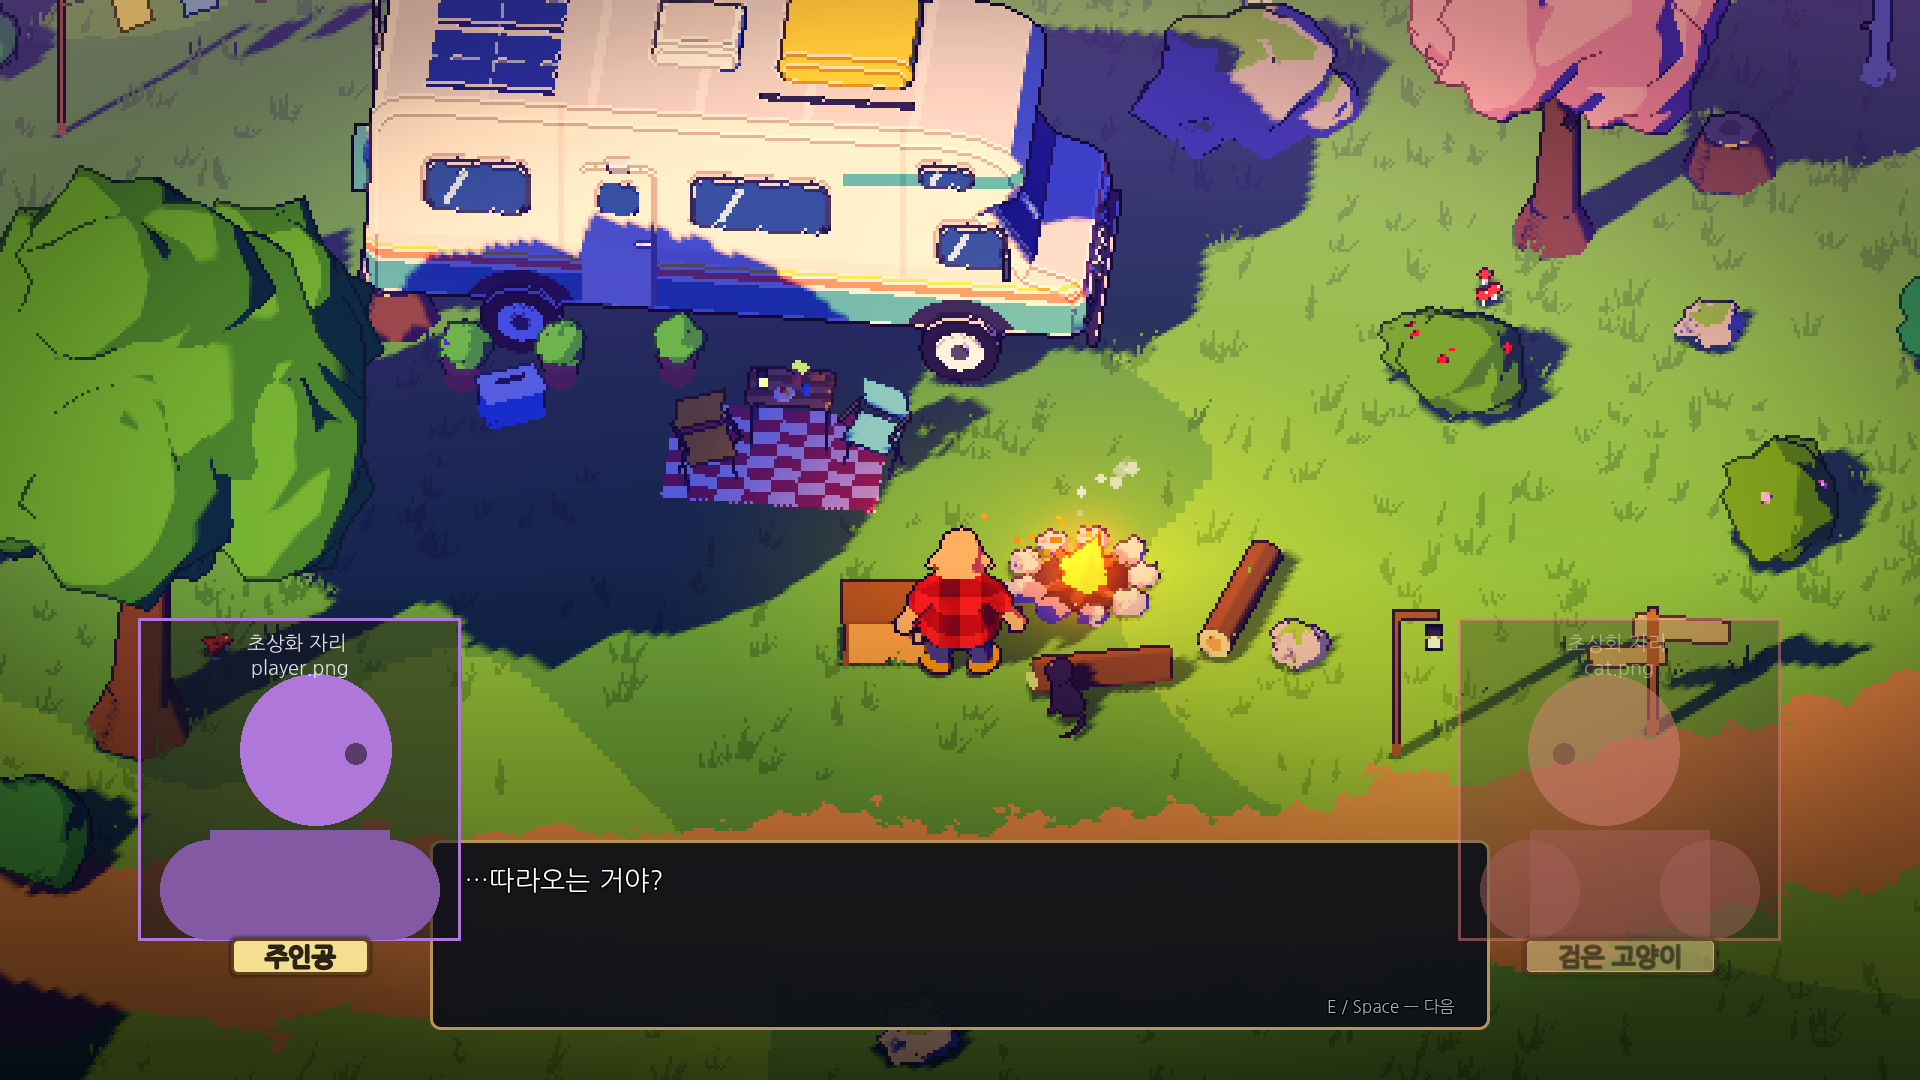
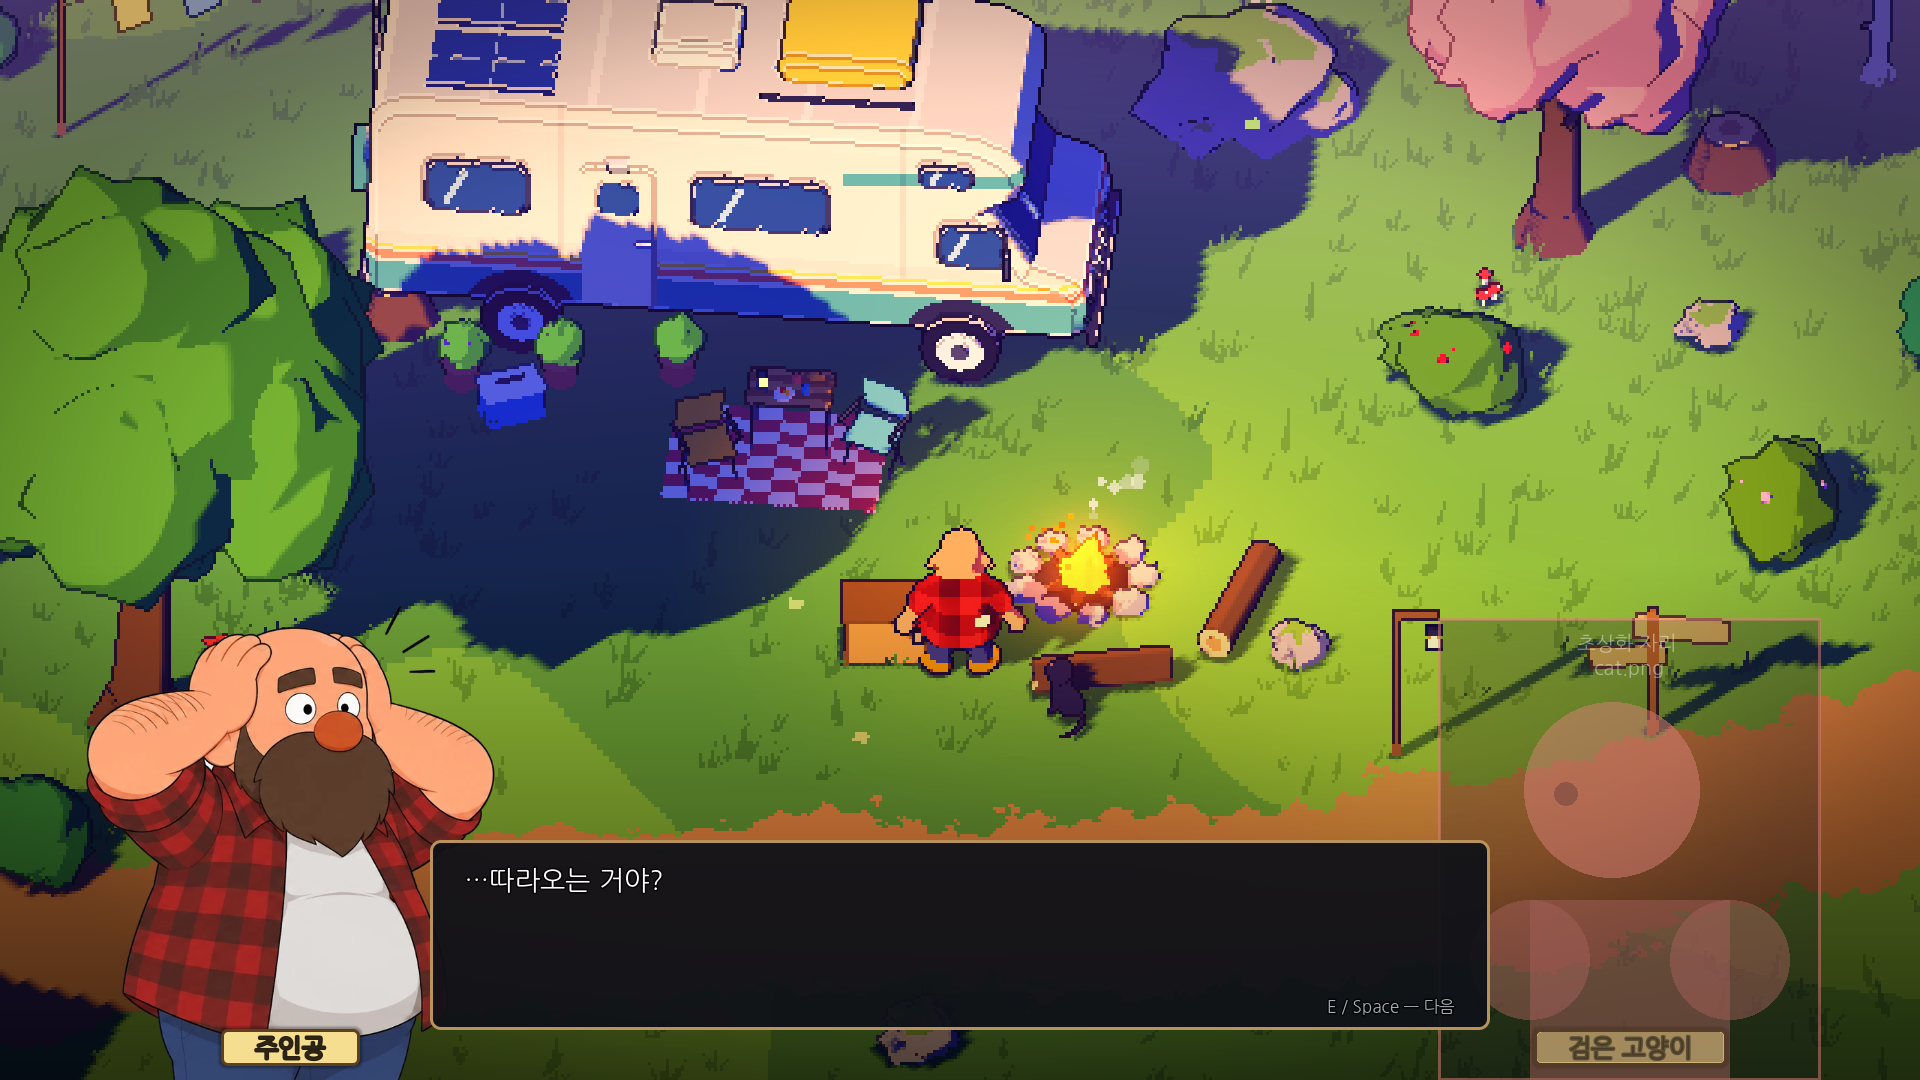
Protagonist dialogue portraits with expressions
- assets/portraits/player.png (default) and player_surprised.png from the user's art;
  the second had its background removed with tools/portraits/prepare_portrait.py
  (border-colour flood fill, enclosed pockets, edge un-mixing). Originals in art_src/portraits.
- Line nodes take an optional "expression" (editor: 표정 field, validator warns on unknown);
  the portrait uses <speaker>_<expression>.png and falls back to the default.
- Full-figure art is shown as a bust (top 68% fills 420x480), portraits stand behind the
  window's ends on the bottom of the screen.
- The cat demo's "…따라오는 거야?" uses the surprised face.

Claude-Session: https://claude.ai/code/session_01K53dp3QXZsLd6yNF78ES5J

diff --git a/tools/portraits/prepare_portrait.py b/tools/portraits/prepare_portrait.py
@@ -1,0 +1,65 @@
+"""Dialogue portrait prep: removes a flat background and crops to the character.
+
+    python tools/portraits/prepare_portrait.py <source image> <output .png>
+
+Images that already have transparency keep it (alpha just tidied). Otherwise the background
+colour is taken from the image border; every background-coloured region touching the border is
+removed, plus large enclosed background pockets (e.g. between an arm and the head). Small light
+areas inside the outline (eye whites, shirt) stay. Edge pixels are un-mixed from the background
+so no light fringe is left around the dark outline. Needs Pillow, numpy, scipy.
+"""
+import sys
+
+import numpy as np
+from PIL import Image
+from scipy import ndimage
+
+TOLERANCE = 14        # max per-channel difference from the background colour
+HOLE_MIN = 0.0012     # enclosed pockets at least this share of the image are background too
+HOLE_MATCH = 7.0      # ... if their mean difference is this small (shirts/eyes are further off)
+MARGIN = 8
+
+
+def remove_background(rgb: np.ndarray) -> np.ndarray:
+    h, w, _ = rgb.shape
+    border = np.concatenate([rgb[0], rgb[-1], rgb[:, 0], rgb[:, -1]]).astype(np.float32)
+    bg = np.median(border, axis=0)
+    diff = np.abs(rgb.astype(np.float32) - bg).max(axis=2)
+    labels, n = ndimage.label(diff < TOLERANCE)
+    edge = set(np.unique(np.concatenate([labels[0], labels[-1], labels[:, 0], labels[:, -1]]))) - {0}
+    removed = np.isin(labels, list(edge))
+    sizes = ndimage.sum(np.ones_like(diff), labels, index=np.arange(1, n + 1))
+    means = ndimage.mean(diff, labels, index=np.arange(1, n + 1))
+    for i in range(n):
+        if sizes[i] >= HOLE_MIN * h * w and means[i] < HOLE_MATCH:
+            removed |= labels == i + 1
+    alpha = np.where(removed, 0.0, 1.0)
+    # un-mix the anti-aliased rim from the background
+    rim = ndimage.binary_dilation(removed, iterations=2) & ~removed
+    lum = rgb.astype(np.float32) @ np.array([0.299, 0.587, 0.114])
+    lbg = float(bg @ np.array([0.299, 0.587, 0.114]))
+    a_rim = np.clip((lbg - lum) / max(lbg - 30.0, 1.0), 0.0, 1.0)
+    alpha[rim] = np.maximum(a_rim[rim], 0.0)
+    out = rgb.astype(np.float32)
+    a3 = np.maximum(alpha[..., None], 1e-3)
+    out = np.where(rim[..., None], (out - (1.0 - a3) * bg) / a3, out)
+    return np.dstack([np.clip(out, 0, 255), alpha * 255.0]).astype(np.uint8)
+
+
+def main(src: str, dst: str) -> None:
+    im = Image.open(src)
+    if im.mode in ("RGBA", "LA") and np.array(im.convert("RGBA"))[..., 3].min() < 250:
+        rgba = np.array(im.convert("RGBA"))
+        a = rgba[..., 3]
+        rgba[..., 3] = np.where(a < 8, 0, np.where(a > 245, 255, a))
+    else:
+        rgba = remove_background(np.array(im.convert("RGB")))
+    ys, xs = np.nonzero(rgba[..., 3] > 0)
+    h, w = rgba.shape[:2]
+    box = (max(xs.min() - MARGIN, 0), max(ys.min() - MARGIN, 0), min(xs.max() + MARGIN + 1, w), min(ys.max() + MARGIN + 1, h))
+    Image.fromarray(rgba).crop(box).save(dst, optimize=True)
+    print(f"{src} -> {dst} {box[2] - box[0]}x{box[3] - box[1]}")
+
+
+if __name__ == "__main__":
+    main(sys.argv[1], sys.argv[2])

diff --git a/README.md b/README.md
@@ -32,7 +32,7 @@
 | 요리·제작 (P3-5) | `U` **요리·제작 창**: 배운 레시피마다 필요한 재료(가진 수/필요 수)와 시설이 보이고 `만들기` → 짧은 제작 동작(맞으면 중단, 재료는 그대로) → 결과물 + 생활 EXP + 요리/제작 숙련도. **시설**: 캠프 **모닥불**·캠핑카 실내 **주방**(2구 버너) = 조리 시설, 캠프 **작업대**(캠핑카 옆) = 작업대 — 시설 앞에서 `E`로 바로 열림. 약초 연고 같은 **간단한 제작은 어디서나**. **기본 레시피**(송어 구이·버섯 꼬치·약초차·낚싯대·회복 물약 등)는 창에서 생활 EXP로 배우기(일부는 숙련도 조건). **특수 레시피**는 "??? — 얻는 곳"만 보임: 로사의 젤리 의뢰 보상(산딸기 잼), 로사와 대화(황금 잉어 찜), 변덕의 미궁 2층부터 상자의 제작서(달빛 부적). 숙련도가 오르면 제작 시간↓·추가 결과물 확률↑ |
 | 저장/불러오기 | 시작하면 **타이틀 화면**(키 아트 `assets/ui/title_background.webp`, 왼쪽 제목 아래 `새 게임`·`불러오기`·`설정`·`종료`). 저장 슬롯 3개, **슬롯 하나 = 캐릭터 하나**. `새 게임` → 빈 슬롯에서 `여기서 시작` → 그 슬롯에 바로 저장되고, 이후 그 캐릭터는 계속 같은 슬롯에만 저장됨. `불러오기` → 쓴 슬롯의 `이어하기`(Lv·장소·날짜·플레이 시간·마지막 저장 시각 표시) 또는 `삭제`(두 번 눌러 확인). `설정`: 전체 화면·전체 음량(`user://settings.cfg`). `ESC`/`뒤로`로 메뉴로. 3개가 다 차면 하나를 지워야 새 캐릭터를 만들 수 있음. **자동 저장**: 간이침대 수면 뒤, 지역 이동 뒤, 쓰러졌다 깨어난 뒤, 플레이 5분마다, 창을 닫을 때. **수동 저장**: `ESC` 메뉴 → `지금 저장` / `저장하고 타이틀로` / `저장하고 게임 종료`. 변덕의 미궁 안·운전 중·대화·낚시·동작 중에는 저장하지 않음(메뉴에 이유 표시). 저장 위치: `%APPDATA%\Godot\app_userdata\Denial\saves\slot1~3.save` |
 | 퀘스트 (P2-5) | **NPC 의뢰**: 로사에게 `R`로 말을 걸어 대화에서 직접 수락(젤리 5개 → 보고하면 골드·EXP·빵). **게시판**(교역소 가운데) `E`: 반복 의뢰(풀밭 슬라임 3마리), 긴급 의뢰(숲 슬라임 3마리, **24시간 제한** — 실패해도 다시 받기). **현장 사건**: 갈림길 가는 길의 넘어진 짐수레에 다가가면 수락 없이 시작 → 꾸러미 3개를 주워 브론에게 → **해결 2가지**(사례 없이 돌려줌 = 생활 EXP / 사례를 받음 = 골드+일반 EXP). `J` 퀘스트 기록, 오른쪽 위에 진행 목록 |
-| 대화 (P2-5) | 계산대 앞 `R` 대화(로사·브론). **대화 중에는 HUD를 모두 숨김**(대화창만 보임). 대화창: **주인공 초상화는 왼쪽, 대화 상대는 오른쪽**, 말하지 않는 쪽은 불투명도 50%로 흐리게(내레이션은 둘 다 흐림), 이름표는 초상화 아래. 초상화 그림은 `assets/portraits/<화자 ID>.png`(예: `player.png`, `rosa.png`)를 넣으면 바로 쓰이고, 없으면 도형 자리표시(틀 + 머리·어깨 실루엣 + 넣을 파일 이름)가 자리만 잡음. `E`/`Space`/클릭 다음, `1`~`9` 선택. 대화 중에는 이동·공격 잠금, 카메라 그대로. 대사·분기는 모두 `data/dialogues/*.json` (대화 에디터로 편집) |
+| 대화 (P2-5) | 계산대 앞 `R` 대화(로사·브론). **대화 중에는 HUD를 모두 숨김**(대화창만 보임). 대화창: **주인공 초상화는 왼쪽, 대화 상대는 오른쪽**, 말하지 않는 쪽은 불투명도 50%로 흐리게(내레이션은 둘 다 흐림), 이름표는 초상화 아래. 초상화 그림은 `assets/portraits/<화자 ID>.png`(예: `player.png`, `rosa.png`)를 넣으면 바로 쓰이고(전신 그림은 상반신이 보이게 확대, 아래는 화면 밖), 없으면 도형 자리표시(틀 + 머리·어깨 실루엣 + 넣을 파일 이름)가 자리만 잡음. **표정**: 대사 노드의 `표정`(에디터 속성 패널)을 고르면 `<화자 ID>_<표정>.png`를 씀 — 지금 주인공은 기본·놀람(`player_surprised.png`, 고양이 첫 만남의 "…따라오는 거야?"). 배경 있는 그림은 `tools/portraits/prepare_portrait.py`로 배경 제거·잘라내기(원본은 `art_src/portraits/`). `E`/`Space`/클릭 다음, `1`~`9` 선택. 대화 중에는 이동·공격 잠금, 카메라 그대로. 대사·분기는 모두 `data/dialogues/*.json` (대화 에디터로 편집) |
 | 상점·NPC (P2-4) | 캠프 서쪽 길가 **교역소**: 로사의 잡화점(08~20시)·브론의 대장간(09~18시). 계산대 앞 `E`로 거래 — 사기·팔기(상인마다 매입가가 다르고, 희귀 재료는 대장간만 삼). 재고는 1일/3일마다 다시 채워짐. 대장간에서 착용 장비 **강화**(100% 성공, 최대 +3). 문 닫는 시각이면 주인이 집으로 걸어 들어가고 거래 불가. 골드는 HUD에 표시(시작 50) |
 | 소모품·퀵슬롯 (P2-3) | `1`~`4` 소모품 퀵슬롯, `5`~`8` 스킬·마법 퀵슬롯. 물약은 0.8초 마시는 동안 천천히 이동, 빵·통조림은 멈춰서 먹음 — 동작이 끝나야 효과, **사용 중 맞으면 중단되고 아이템은 남음**. Tab에서 사용·등록, 보급 상자의 '마법서: 작은 치유'를 읽으면 마법을 배워 5번 칸에 등록(MP 8, 재사용 3초) |
 | 장비 (P2-2) | `Tab`에서 장착/해제: 머리·몸통·장갑·신발·목걸이·반지 2·허리띠·주무기/보조 손. 양손 무기(불꽃 장검)는 보조 손을 비움. 교체는 0.6초 동작 뒤 적용(그동안 공격 불가). 방어구가 받는 피해를 줄이고, 일부 드롭 장비에는 무작위 옵션. 등불은 등불 허리띠가 있어야 켤 수 있음. 시험용 장비: 캠핑카 창고·캠프 보급 상자 |

diff --git a/notes/IMPLEMENTATION_ASSUMPTIONS.md b/notes/IMPLEMENTATION_ASSUMPTIONS.md
@@ -241,7 +241,7 @@ F 키와 다른 조작의 충돌, 인벤토리 키 등은 P1에서 정합니다.
 | **컷씬 스킵** | 전체 스킵 없음. `E`/`Space`로 현재 자막·대기만 빨리 넘김 | `cutscene_runner.gd` |
 | 컷씬 단계 | 자막·대기·액터 이동(고양이·NPC)·바라보기·플래그. 카메라는 고정 탑다운 그대로(회전·이동 없음) | `cutscene_runner.gd` |
 | 대화창 | 화면 아래 1060px 상자(자동 줄바꿈 대사, 선택지 버튼 1~9). **대화 중에는 HUD 전체를 숨김**(사용자 지시: 대화에만 집중) — 체력바·정보·퀘스트 목록·퀵슬롯·로그·단축키 줄·알림. 컷씬 자막과 로딩 화면은 그대로 | `dialogue_box.gd`, `game_hud.gd` |
-| 대화 초상화 (사용자 지시) | **주인공은 왼쪽, 대화 상대는 오른쪽**, 말하지 않는 인물은 **불투명도 50%**, 초상화 그림은 사용자가 제공. 아래는 개발용 가정: 그림 파일은 `assets/portraits/<speaker_id>.png`(speakers.json `portrait`로 다른 경로 지정 가능), 360×360 칸에 비율 유지로 맞춤. 그림이 없으면 도형 자리표시. 내레이션은 둘 다 흐림, 선택지가 뜨면 주인공 쪽이 밝음, 오른쪽에는 파일에서 처음 말하는 상대가 처음부터 서 있고 다른 상대가 말하면 그 인물로 바뀜 | `dialogue_portrait.gd` |
+| 대화 초상화 (사용자 지시) | **주인공은 왼쪽, 대화 상대는 오른쪽**, 말하지 않는 인물은 **불투명도 50%**, 초상화 그림은 사용자가 제공. 아래는 개발용 가정: 그림 파일은 `assets/portraits/<speaker_id>.png`(speakers.json `portrait`로 다른 경로 지정 가능), 표정은 대사 노드의 `expression` → `<speaker_id>_<표정>.png`(speakers.json `expressions`에 등록, 파일이 없으면 기본 그림). 전신 그림은 위쪽 68%가 420×480 칸을 채우도록 확대하고 아래는 화면 밖으로, 초상화는 대화창 양 끝 뒤에 서고 화면 아래에 붙음. 선택지가 뜨면 주인공은 기본 표정. 그림이 없으면 도형 자리표시. 사용자 그림의 배경 제거는 테두리 색 기준 자동 처리(`tools/portraits/prepare_portrait.py`). 내레이션은 둘 다 흐림, 선택지가 뜨면 주인공 쪽이 밝음, 오른쪽에는 파일에서 처음 말하는 상대가 처음부터 서 있고 다른 상대가 말하면 그 인물로 바뀜 | `dialogue_portrait.gd` |
 | 저장 규칙 | 오류가 있어도 확인 후 저장 가능(초안). 덮어쓰기 전 `user://dialogue_backups/<id>/`에 백업(20개), 외부 변경 시 확인 | `dialogue_editor_panel.gd` |
 | 실행 취소 | 편집마다 문서 스냅샷(최대 200단계), 같은 칸 연속 입력은 1.5초 안이면 한 단계로 합침 | `dialogue_editor_panel.gd` |
 | 게임에서 실행 | 에디터가 `user://dialogue_playtest.json`을 쓰고 메인 씬 실행 → 게임이 로딩 후 그 대화를 재생하고 파일 삭제. 실제 게임 상태 사용(세이브는 없음) | `plugin.gd`, `bootstrap.gd` |

diff --git a/assets/portraits/README.md b/assets/portraits/README.md
@@ -4,13 +4,16 @@
 
 | 파일 | 화자 | 위치 |
 |---|---|---|
-| `player.png` | 주인공 | 왼쪽 |
+| `player.png` | 주인공 (기본) | 왼쪽 |
+| `player_surprised.png` | 주인공 (놀람) | 왼쪽 |
 | `rosa.png` | 로사 | 오른쪽 |
 | `bron.png` | 브론 | 오른쪽 |
 | `cat.png` | 검은 고양이 | 오른쪽 |
 | `king.png` | 왕 | 오른쪽 |
 
-- 그림은 360×360 칸에 비율을 유지해 맞추고, 아래쪽 가운데에 이름표가 붙습니다.
+- 칸은 420×480입니다. 전신 그림은 위쪽 68%(머리~허리)가 칸을 채우도록 확대되고 아래는 화면 밖으로 나갑니다. 이름표는 아래쪽 가운데.
+- 표정: `<화자 ID>_<표정>.png`를 넣고 `data/speakers.json`의 그 화자 `"expressions"`에 등록하면 대화 에디터의 대사 노드에서 고를 수 있습니다.
+- 배경이 있는 그림은 `python tools/portraits/prepare_portrait.py 원본 결과.png`로 배경을 지우고 잘라 냅니다(원본은 `art_src/portraits/`에 보관).
 - 주인공은 오른쪽(상대 쪽), 상대는 왼쪽을 보도록 그리면 됩니다.
 - 그림이 없는 화자는 도형 자리표시가 대신 나옵니다.
 - 다른 경로를 쓰려면 speakers.json에서 그 화자에 `"portrait": "res://..."`를 넣습니다.

diff --git a/notes/DIALOGUE_EDITOR.md b/notes/DIALOGUE_EDITOR.md
@@ -35,7 +35,7 @@ Ctrl+C / Ctrl+V 복사·붙여넣기(내부 연결 유지, 새 ID) · Ctrl+D 복
 | 노드 | 하는 일 | 출력 |
 |---|---|---|
 | 시작 | 진입점, 그래프당 하나(지울 수 없음) | 다음 |
-| 대사 | 화자 + 대사 (게임에서 자동 줄바꿈) | 다음 |
+| 대사 | 화자 + 대사 (게임에서 자동 줄바꿈) + 표정(초상화 그림, 화자에 등록된 것 중 선택, 기본값 비움) | 다음 |
 | 선택지 | 선택지별 분기. 선택지마다 "조건이 맞을 때만 보이기" 가능 | 선택지마다 하나 |
 | 조건 | 상태를 **조회만** 해서 분기: 플래그 / 퀘스트 상태 / 아이템 개수 / 골드 / 이벤트 완료 | 참 · 거짓 |
 | 액션 | 허용 목록만: `set_flag`, `quest_accept`, `quest_advance`, `quest_complete`(보상은 퀘스트 데이터), `mark_event_complete` | 다음 |
